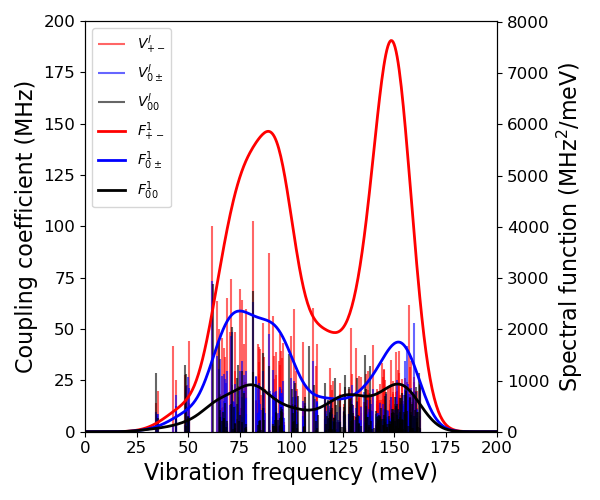
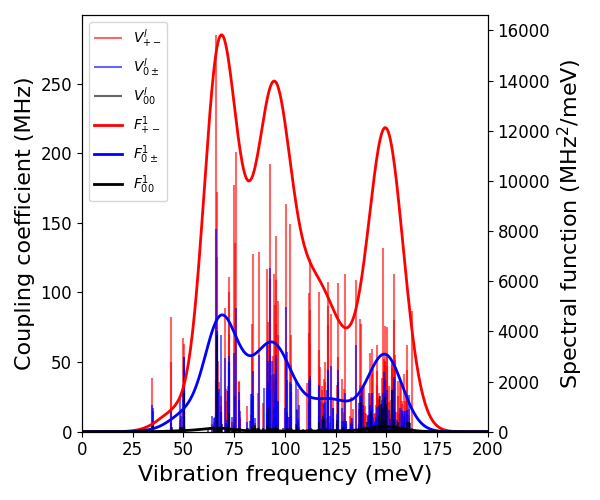
Working on second order derivatives

Changed region(s): [[0.0, 0.03, 0.96, 0.99]]

diff --git a/src/beyblade/zfs_manager.py b/src/beyblade/zfs_manager.py
@@ -88,7 +88,7 @@ class ZFSManager:
             self.eigen_rotation = raw_data["eigen_rotation"]
 
             self.zfs_tensors = raw_data["zfs_tensors"]
-            self.zfs_tensors_2d = raw_data["zfs_tensors_2d"]
+            self.zfs_tensors_2d = raw_data["zfs_tensors_2d"][()]
 
             print("Succesfully loaded ZFS data from .npz file")
 
@@ -232,7 +232,7 @@ class ZFSManager:
         phonon_pert = self.phonon_manager.get_phonon_pert(pert_SI)
 
         zfs_2nd_derivs, V_0_0_2nd, V_p_m_2nd, V_0_pm_2nd = self._calc_second_order_derivatives(
-            self.zfs_tensors_2d, zfs_1d_derivs, self.zfs_relaxed, phonon_pert["eigs"], phonon_pert["sym"], phonon_pert["idx"]
+            zfs_1d_derivs, phonon_pert["eigs"], phonon_pert["sym"], phonon_pert["idx"]
         )
 
         save_name = self.save_data(save_name, second_order=True, zfs_derivs=zfs_2nd_derivs*CONSTANTS["MHz2meV"], V_0_0=V_0_0_2nd*CONSTANTS["MHz2meV"], V_p_m=V_p_m_2nd*CONSTANTS["MHz2meV"],
@@ -255,7 +255,6 @@ class ZFSManager:
         return zfs_tensors
 
 
-    #TODO: Never use phonon index?
     def _load_zfs_perts_2d(self, search_path, phonon_pert):
         # Implementation to read the 2D grid of OUTCAR files
         print("Reading ZFS tensors from: ", search_path)
@@ -289,6 +288,7 @@ class ZFSManager:
 
         index_parts = outcar.parent.name.split("_")
         indices = tuple(int(part)-1 for part in index_parts if part.isdigit())
+        print(indices)
         if len(indices) != 2:
             print(f"Warning: Could not extract valid indices from folder name {outcar.parent.name}. Skipping this file.")
             return None
@@ -362,7 +362,7 @@ class ZFSManager:
         return zfs_deriv, V_0_0 / 3, V_p_m, V_0_pm / np.sqrt(2)
 
 
-    def _calc_second_order_derivatives(self, zfs_2d_dict, zfs_1d_derivs, zfs_relaxed, phonon_eigs, symmetry, phonon_idx):
+    def _calc_second_order_derivatives(self, zfs_1d_derivs, phonon_eigs, symmetry, phonon_idx):
         print("Calculating derivatives...")
         n_modes = len(phonon_eigs)
 
@@ -372,23 +372,30 @@ class ZFSManager:
         V_0_pm_2nd = np.zeros((n_modes, n_modes))
 
         for i in range(n_modes):
+            global_i = phonon_idx[i]
+
             q_i = phonon_eigs[i]
             dD_qi = zfs_1d_derivs[i]
 
             for j in range(i, n_modes):
+                global_j = phonon_idx[j]
+
                 q_j = phonon_eigs[j]
                 dD_qj = zfs_1d_derivs[j]
 
-                if (i, j) not in zfs_2d_dict:
-                    continue
+                if (global_i, global_j) not in self.zfs_tensors_2d:
+                    if (global_j, global_i) not in self.zfs_tensors_2d:
+                        continue
+                    D_qi_qj = self.zfs_tensors_2d[(global_j, global_i)]
+                else:
+                    D_qi_qj = self.zfs_tensors_2d[(global_i, global_j)]
 
-                D_qi_qj = zfs_2d_dict[(i, j)]
+                #print("Phonon index: ", global_i, global_j, "\nLoop index: ", i, j)
 
-                # d2D_dqidqj = (D_qi_qj - zfs_relaxed) / (q_i * q_j) - (dD_qi / q_j) - (dD_qj / q_i)
+                d2D_dqidqj = (D_qi_qj - self.zfs_relaxed)/(q_i*q_j) - dD_qi/q_j - dD_qj/q_i
 
-                d2D_dqidqj = (D_qi_qj - zfs_relaxed - dD_qi*q_i - dD_qj*q_j)
                 if self.debug:
-                    self._debug_derivs(d2D_dqidqj, (symmetry[i], symmetry[j]), (phonon_idx[i]+1, phonon_idx[j]+1))
+                    self._debug_derivs(d2D_dqidqj, (symmetry[i], symmetry[j]), (global_i, global_j))
 
                 zfs_2nd_derivs[i, j] = d2D_dqidqj
                 zfs_2nd_derivs[j, i] = d2D_dqidqj
@@ -397,20 +404,24 @@ class ZFSManager:
                 diff_in_plane = d2D_dqidqj[0, 0] - d2D_dqidqj[1, 1]
                 off_diag_in_plane = d2D_dqidqj[0, 1]
 
-                if symmetry[i] == symmetry[j]: # Måste ta hänsyn till att E moder bidrar till både 00 och +- i andra ordningens fononer
-                    V_0_0_2nd[i, j] = np.abs(d2D_dqidqj[2, 2] - 0.5 * trace_in_plane) / (q_i*q_j)
+                if symmetry[i] == symmetry[j]:
+                    V_0_0_2nd[i, j] = np.abs(d2D_dqidqj[2, 2] - 0.5 * trace_in_plane)
 
-                if symmetry[i] in ["Ex"] and symmetry[j] in ["A1", "A2", "Ex"]:
-                    V_p_m_2nd[i, j] = 2 * (0.5 * np.sqrt(diff_in_plane**2 + 2 * off_diag_in_plane**2)) / (q_i*q_j)
-                    V_0_pm_2nd[i, j] = 2 * (np.sqrt(d2D_dqidqj[0, 2]**2 + d2D_dqidqj[1, 2]**2)) / (q_i*q_j)
+                either_is_E = symmetry[i] == "Ex" or symmetry[j] == "Ex"
+                if either_is_E:
+                    V_p_m_2nd[i, j] = 2 * (0.5 * np.sqrt(diff_in_plane**2 + 2 * off_diag_in_plane**2))
+                    V_0_pm_2nd[i, j] = 2 * (np.sqrt(d2D_dqidqj[0, 2]**2 + d2D_dqidqj[1, 2]**2))
 
                 V_0_0_2nd[j, i] = V_0_0_2nd[i, j]
                 V_p_m_2nd[j, i] = V_p_m_2nd[i, j]
                 V_0_pm_2nd[j, i] = V_0_pm_2nd[i, j]
 
+        print("Available keys in zfs tensor: ", sorted(self.zfs_tensors_2d.keys()))
+
         print("Symmetry adjusted coefficients: ")
         print("V_00: ", np.sum(V_0_0_2nd > 0))
         print("V_pm: ", np.sum(V_p_m_2nd > 0))
         print("V_0pm: ", np.sum(V_0_pm_2nd > 0))
+        print("Number of tensors: ", zfs_2nd_derivs.shape[0])
 
         return zfs_2nd_derivs, V_0_0_2nd / 3, V_p_m_2nd, V_0_pm_2nd / np.sqrt(2)

diff --git a/src/beyblade/phonon_manager.py b/src/beyblade/phonon_manager.py
@@ -240,6 +240,9 @@ class PhononManager:
 
         Q = [np.sqrt(np.sum(mode**2)) for mode in self.data["eigs"]]
 
+        if not np.isclose(Q, 1).all():
+          raise ValueError("Phonon modes not normalized correctly.")
+
         phonon_pert["eigs"] = np.array([
             perturbation_scale * mode * np.sqrt(2 * CONSTANTS["meV2rads"] * freq / Cn.hbar) if freq > 0 else None
             for mode, freq in zip(Q, self.data["freqs"])

diff --git a/src/beyblade/utils.py b/src/beyblade/utils.py
@@ -8,7 +8,6 @@ class MathUtils:
     @staticmethod
     def broad_delta(omega, omega_p, sigma):
         delta = np.exp(-0.5 * (omega_p - omega)**2 / (sigma**2)) * 1 / (np.sqrt(2*Cn.pi)*sigma)**omega.ndim
-        print(np.sum(delta))
         return delta
 
     @staticmethod
